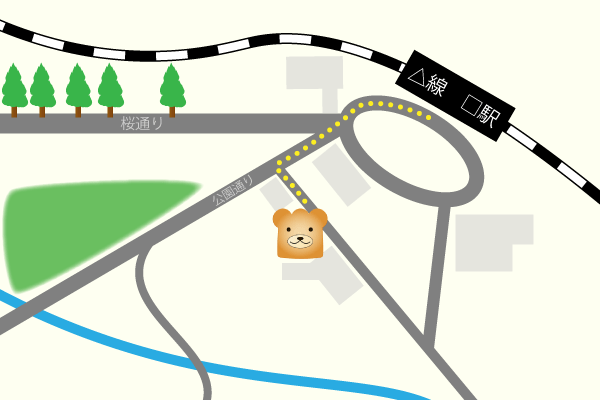
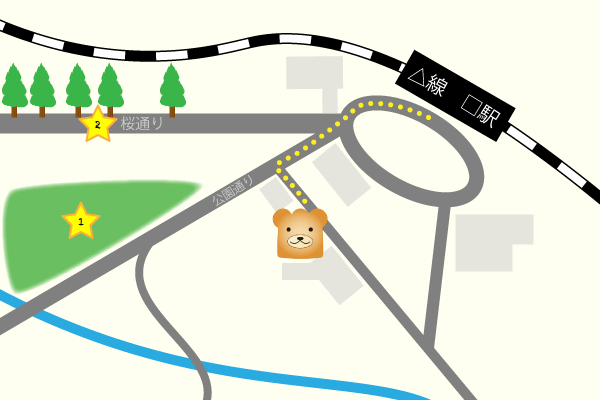
各フッターに電話番号を記載。アクセスページでは地図へ星印を追加、写真の挿入や太字への変更もしました。

Changed region(s): [[0.12, 0.27, 0.21, 0.36], [0.09, 0.51, 0.18, 0.6]]

diff --git a/access.html b/access.html
@@ -22,21 +22,28 @@
             <section  class="map">
                 <h2>アクセス</h2>
                 <img src="image/map.png" alt="△線□駅から当店までの道順と、周辺にある公園や道路名が書かれた地図">
+                <p>
+                    当店の最寄駅は△線□駅です。<br>
+                    □駅中央口より徒歩10分ほどの場所にあります。<br>
+                    1.駅前ロータリーから公園通り方面に進む<br>
+                    2.公園通りを直進し1番最初の交差点を左折する<br>
+                    3.●マンションと●ビルの間「くま's Bakery」
+                </p>
             </section>
             <section class="recommend">
                 <h2>周辺のおすすめスポット</h2>
                 <div class="park">
-                    <!-- 公園の写真 -->
-                    <p>市営〇〇公園<br>
-                        当店から徒歩5分ほどの場所にある公園です。<br>
+                    <img src="image/park.jpg" alt="当店の近くにある、市営〇〇公園のピクニックエリアの写真">
+                    <h3>1.市営〇〇公園</h3>
+                    <p>当店から徒歩5分ほどの場所にある公園です。<br>
                         お子様向けの遊具やピクニックエリアがあるので<br>
                         気軽にピクニックができておすすめです。
                     </p>
                 </div>
                 <div class="street">
-                    <!-- 並木道の写真 -->
-                    <p>桜の並木道<br>
-                        春の時期は桜が満開で綺麗な並木道です。<br>
+                    <img src="image/street.jpg" alt="△線□駅近くにある桜通りの新緑時期の写真">
+                    <h3>2.並木道(桜通り)</h3>
+                    <p>春の時期は桜が満開で綺麗な並木道です。<br>
                         夏は木影が多く涼しく、秋は紅葉も綺麗です。<br>
                         おしゃれな雰囲気なのでカップルのお客様におすすめです。
                     </p>
@@ -45,6 +52,7 @@
         </main>
         <div class="footer">
             <p>〒000-0000<br>東京都〇〇市△△町1−1−1<br>
+                TEL 042-XXXX-XXXX<br>
                 くま's Bakery<br>
                 CHIKA YAMADA
             </p>

diff --git a/style.css b/style.css
@@ -105,7 +105,26 @@ main h2{
     border-radius: 5px 0 0 5px;
 }
 .map img{
-    margin: 16px 0px;
+    margin-top: 16px;
+}
+.recommend{
+    margin: 0 auto;
+    width: 950px;
+}
+.recommend img{
+    width: 400px;
+    height: 300px;
+}
+.recommend h3{
+    margin: 0;
+}
+.park p,.street p{
+    margin-top: 0;
+}
+.park,.street{
+    width: 450px;
+    display: inline-block;
+    margin-top: 16px;
 }
 .footer{
     background: #d7ebba;

diff --git a/index.html b/index.html
@@ -74,6 +74,7 @@
          </main>
          <div class="footer">
             <p>〒000-0000<br>東京都〇〇市△△町1−1−1<br>
+                TEL 042-XXXX-XXXX<br>
                 くま's Bakery<br>
                 CHIKA YAMADA
             </p>

diff --git a/lesson.html b/lesson.html
@@ -23,6 +23,7 @@
         </main>
         <div class="footer">
             <p>〒000-0000<br>東京都〇〇市△△町1−1−1<br>
+                TEL 042-XXXX-XXXX<br>
                 くま's Bakery<br>
                 CHIKA YAMADA
             </p>
